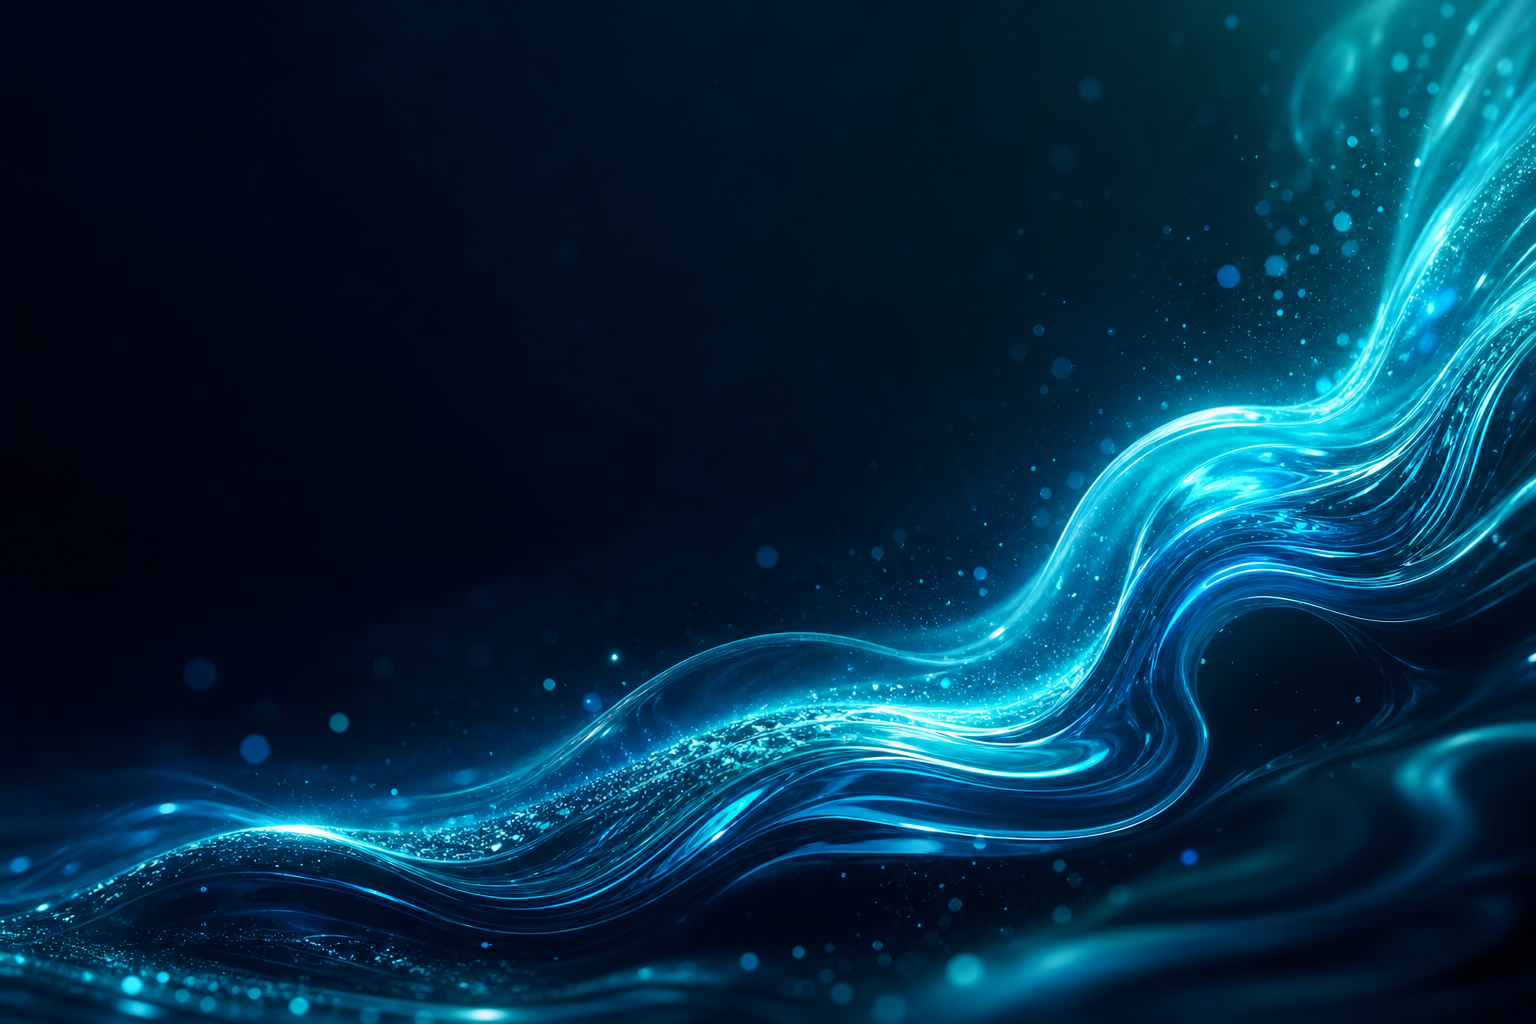
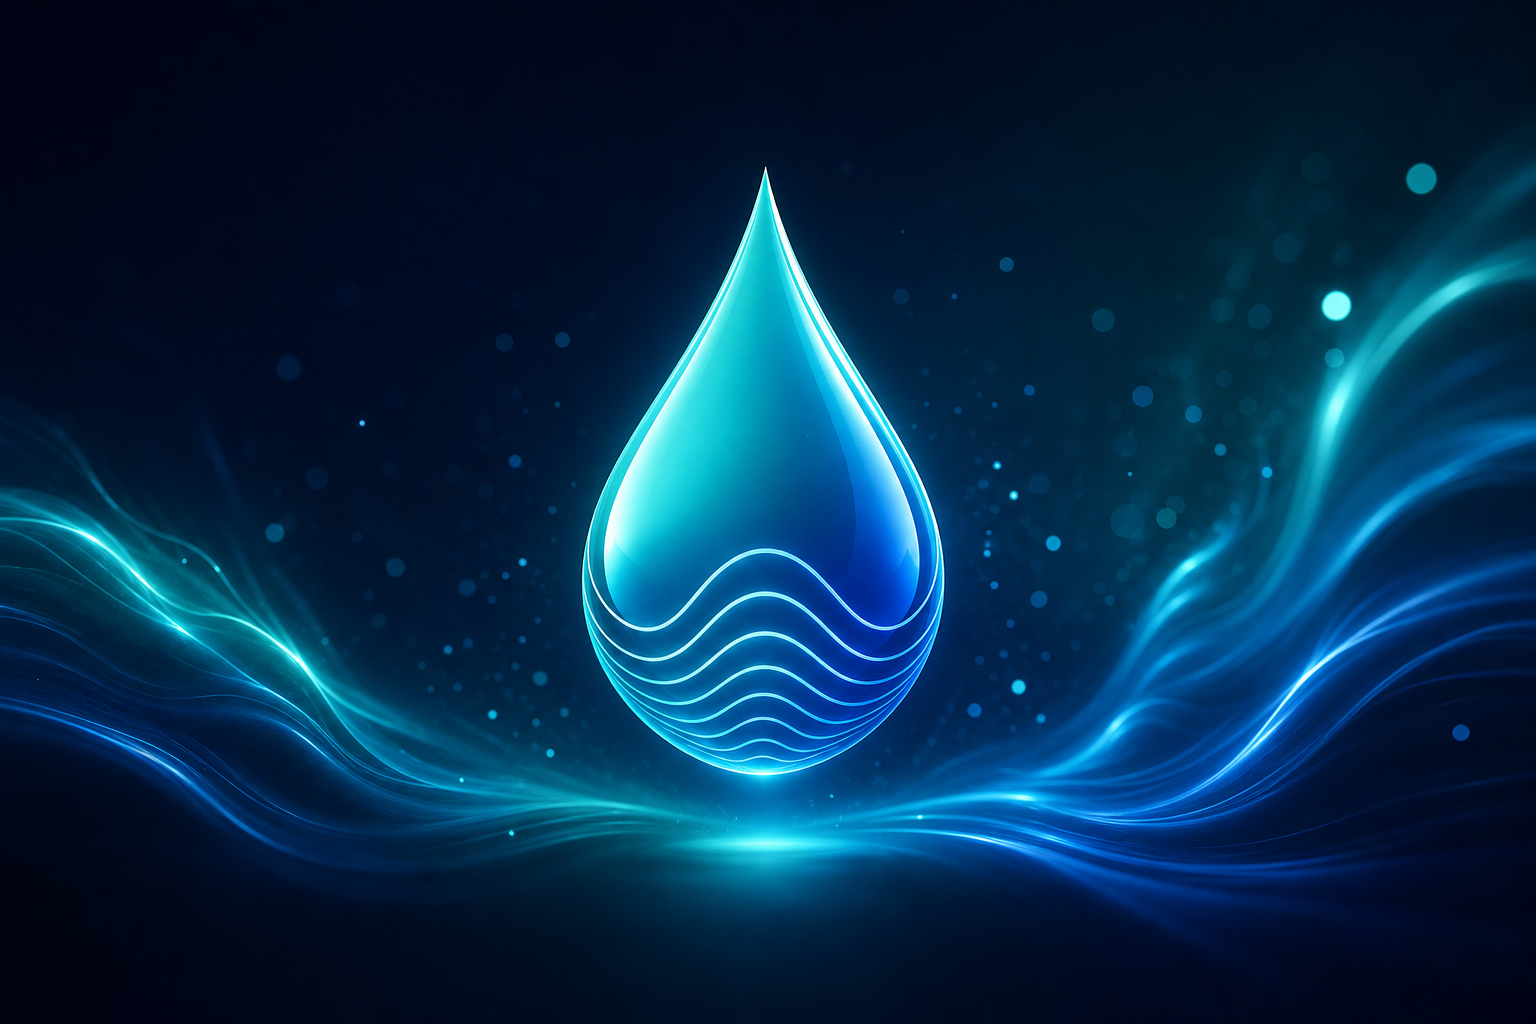
Replace brand assets, set X handle @user and domain liquidplan.fun

diff --git a/README.md b/README.md
@@ -6,16 +6,16 @@
 
 # CA:
 
-# AKSYuSqinmiYt5pSQxsfb4m97seTP37s32TSs9Lpump
+# soon
 
 ---
 
-**Patch your liquidity.** Compose hooks like patching modules, then run them on
+**Plan your liquidity.** Compose hooks like patching modules, then run them on
 Solana CLMMs.
 
-[![Website](https://img.shields.io/badge/site-liquidplan.fi-D4AF37?style=flat-square)](https://liquidplan.fi)
+[![Website](https://img.shields.io/badge/site-liquidplan.fun-2DD4BF?style=flat-square)](http://www.liquidplan.fun)
 [![Docs](https://img.shields.io/badge/docs-architecture-3D2817?style=flat-square)](docs/architecture.md)
-[![X](https://img.shields.io/badge/x-@liquidplan__fi-1A1A1A?style=flat-square)](https://x.com/liquidplan_fi)
+[![X](https://img.shields.io/badge/x-@Liquidplan-0D2030?style=flat-square)](https://x.com/Liquidplan)
 [![CI](https://img.shields.io/github/actions/workflow/status/Liquidplandotfuns/liquidplan/ci.yml?branch=main&style=flat-square&label=build)](https://github.com/Liquidplandotfuns/liquidplan/actions/workflows/ci.yml)
 [![License](https://img.shields.io/badge/license-MIT-7CB07A?style=flat-square)](LICENSE)
 [![Stars](https://img.shields.io/github/stars/Liquidplandotfuns/liquidplan?style=flat-square&color=FFD93D)](https://github.com/Liquidplandotfuns/liquidplan/stargazers)

diff --git a/SECURITY.md b/SECURITY.md
@@ -6,7 +6,7 @@ not use it to custody funds without one.
 ## Reporting a vulnerability
 
 Report suspected vulnerabilities privately via the contact on
-[liquidplan.fi](https://liquidplan.fi) rather than opening a public issue. Please include
+[liquidplan.fun](http://www.liquidplan.fun) rather than opening a public issue. Please include
 a description, affected component, and reproduction steps.
 
 The account model, arithmetic guarantees, and known limitations are documented

diff --git a/docs/cli-quickstart.md b/docs/cli-quickstart.md
@@ -42,7 +42,7 @@ liquidplan --version
 Or, if you'd rather pin to the tarball mirrored from the site:
 
 ```bash
-npm i -g https://liquidplan.fi/downloads/liquidplan-cli-latest.tgz
+npm i -g http://www.liquidplan.fun/downloads/liquidplan-cli-latest.tgz
 ```
 
 ## First commands